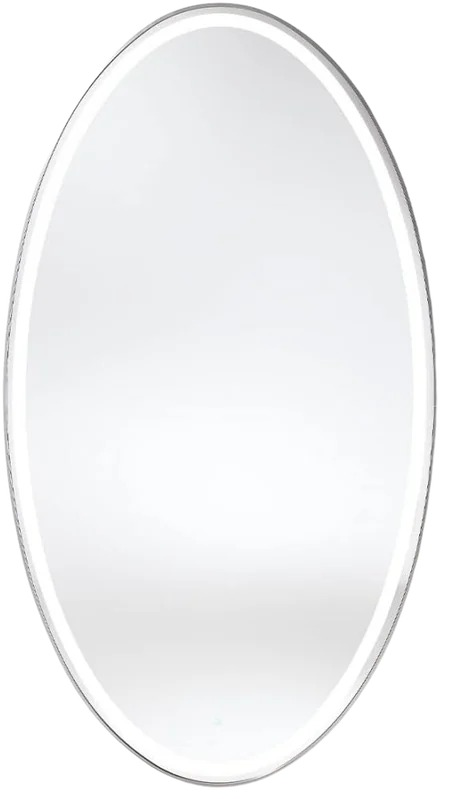
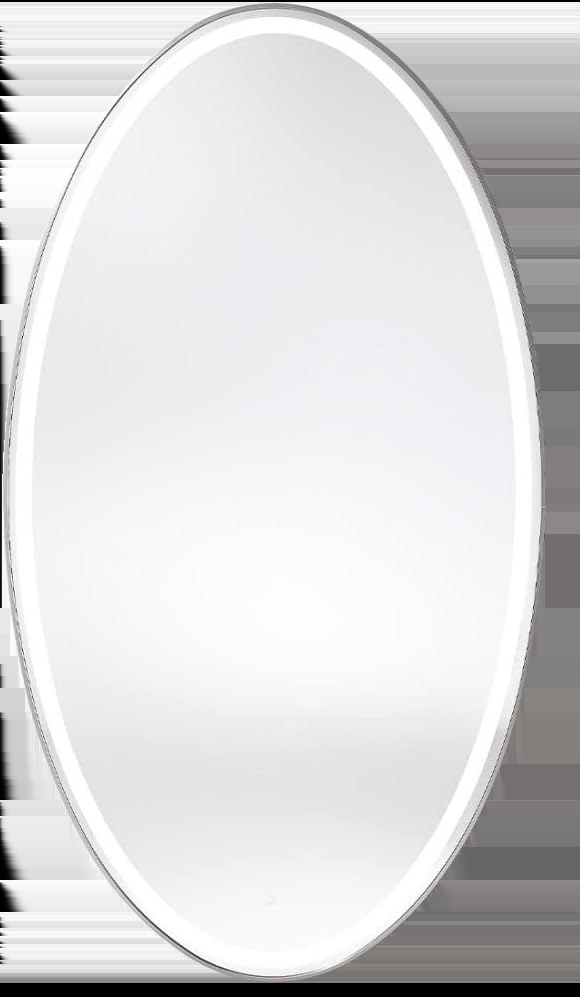
SPECCHI FMR10-FMR19: foto mancanti, copertine e scheda tecnica FMR11
FMR10: aggiunte le foto pulite di ogni versione (marrone +4, bianco +1, rosso +1).
FMR11: inserita la scheda tecnica (compensato/melamina rovere, telaio nero, imballo 106x13x79, 30 kg).
FMR12: copertina sostituita con la frontale completa (non zoomata) + aggiunta l'angolata.
FMR13: copertina = foto del prodotto, aggiunta la terza foto.
FMR14: aggiunte le 4 foto mancanti, copertina = frontale con struttura dello specchio visibile.
FMR16 GOLD/SILVER: aggiunte le 2 foto mancanti per versione.
FMR17 GOLD/SILVER/BLACK: aggiunta la frontale mancante per versione.
FMR18: aggiunte le 2 foto mancanti. FMR19: aggiunta l'ambientata. FMR15 invariato.

Claude-Session: https://claude.ai/code/session_013AUanaDTJKgu6p2JuvkhiZ

Changed region(s): [[0.0, 0.03, 1.0, 1.0], [0.0, 0.0, 0.6323, 0.6008]]

diff --git a/index.html b/index.html
@@ -761,7 +761,7 @@ function renderConsolle(){
 renderConsolle();
 
 // ─── SPECCHI ───
-const specchi = [{"code":"FMR1","versions":[{"code":"FMR1 SILVER","price":"Su richiesta","img":"images-barber/r_FMR1_silver_1.jpg","imgs":["images-barber/r_FMR1_silver_1.jpg","images-barber/r_FMR1_silver_2.jpg","images-barber/r_FMR1_silver_3.jpg","images-barber/r_FMR1_silver_4.jpg","images-barber/r_FMR1_silver_5.jpg","images-barber/r_FMR1_silver_6.jpg","images-barber/r_FMR1_silver_7.jpg"],"specs":"<b>Specchio da toeletta rettangolare 170 × 70 cm.</b><br>Illuminazione LED frontale integrata · guida luminosa da 4 cm a doppia striscia LED · luce uniforme senza ombre.<br>Intensità e temperatura colore regolabili (3000K / 4000K / 6000K).<br>Vetro senza rame da 4 mm · cornice in alluminio (nero / argento / oro) · 2 ganci metallici posteriori.","col":""},{"code":"FMR1 GOLD","price":"Su richiesta","img":"images-barber/r_FMR1_gold_1.jpg","imgs":["images-barber/r_FMR1_gold_1.jpg","images-barber/r_FMR1_gold_2.jpg","images-barber/r_FMR1_gold_3.jpg"],"specs":"<b>Specchio da toeletta rettangolare 170 × 70 cm.</b><br>Illuminazione LED frontale integrata · guida luminosa da 4 cm a doppia striscia LED · luce uniforme senza ombre.<br>Intensità e temperatura colore regolabili (3000K / 4000K / 6000K).<br>Vetro senza rame da 4 mm · cornice in alluminio (nero / argento / oro) · 2 ganci metallici posteriori.","col":""},{"code":"FMR1 BLACK","price":"Su richiesta","img":"images-barber/r_FMR1_black_1.jpg","imgs":["images-barber/r_FMR1_black_1.jpg","images-barber/r_FMR1_black_2.jpg","images-barber/r_FMR1_black_3.jpg"],"specs":"<b>Specchio da toeletta rettangolare 170 × 70 cm.</b><br>Illuminazione LED frontale integrata · guida luminosa da 4 cm a doppia striscia LED · luce uniforme senza ombre.<br>Intensità e temperatura colore regolabili (3000K / 4000K / 6000K).<br>Vetro senza rame da 4 mm · cornice in alluminio (nero / argento / oro) · 2 ganci metallici posteriori.","col":""}]},{"code":"FMR2","versions":[{"code":"FMR2 SILVER","price":"Su richiesta","img":"images-barber/r_FMR2_silver_1.jpg","imgs":["images-barber/r_FMR2_silver_1.jpg","images-barber/r_FMR2_silver_2.jpg","images-barber/r_FMR2_silver_3.jpg","images-barber/r_FMR2_silver_4.jpg","images-barber/r_FMR2_silver_5.jpg","images-barber/r_FMR2_silver_6.jpg","images-barber/r_FMR2_silver_7.jpg"],"specs":"<b>Specchio da toeletta rotondo Ø 80 cm.</b><br>Illuminazione LED frontale integrata · guida luminosa da 4 cm a doppia striscia LED · luce uniforme senza ombre.<br>Intensità e temperatura colore regolabili (3000K / 4000K / 6000K).<br>Vetro senza rame da 4 mm · cornice in alluminio (nero / argento / oro) · ganci metallici posteriori.","col":""},{"code":"FMR2 GOLD","price":"Su richiesta","img":"images-barber/r_FMR2_gold_1.jpg","imgs":["images-barber/r_FMR2_gold_1.jpg","images-barber/r_FMR2_gold_2.jpg","images-barber/r_FMR2_gold_3.jpg","images-barber/r_FMR2_gold_4.jpg","images-barber/r_FMR2_gold_5.jpg","images-barber/r_FMR2_gold_6.jpg"],"specs":"<b>Specchio da toeletta rotondo Ø 80 cm.</b><br>Illuminazione LED frontale integrata · guida luminosa da 4 cm a doppia striscia LED · luce uniforme senza ombre.<br>Intensità e temperatura colore regolabili (3000K / 4000K / 6000K).<br>Vetro senza rame da 4 mm · cornice in alluminio (nero / argento / oro) · ganci metallici posteriori.","col":""},{"code":"FMR2 BLACK","price":"Su richiesta","img":"images-barber/r_FMR2_black_1.jpg","imgs":["images-barber/r_FMR2_black_1.jpg","images-barber/r_FMR2_black_2.jpg","images-barber/r_FMR2_black_3.jpg","images-barber/r_FMR2_black_4.jpg","images-barber/r_FMR2_black_5.jpg","images-barber/r_FMR2_black_6.jpg","images-barber/r_FMR2_black_7.jpg"],"specs":"<b>Specchio da toeletta rotondo Ø 80 cm.</b><br>Illuminazione LED frontale integrata · guida luminosa da 4 cm a doppia striscia LED · luce uniforme senza ombre.<br>Intensità e temperatura colore regolabili (3000K / 4000K / 6000K).<br>Vetro senza rame da 4 mm · cornice in alluminio (nero / argento / oro) · ganci metallici posteriori.","col":""}]},{"code":"FMR3","versions":[{"code":"FMR3 SILVER","price":"Su richiesta","img":"images-barber/r_FMR3_silver_1.jpg","imgs":["images-barber/r_FMR3_silver_1.jpg","images-barber/r_FMR3_silver_2.jpg","images-barber/r_FMR3_silver_3.jpg"],"specs":"<b>Specchio da toeletta ovale 170 × 70 cm.</b><br>Illuminazione LED frontale integrata · guida luminosa da 4 cm a doppia striscia LED · luce uniforme senza ombre.<br>Intensità e temperatura colore regolabili (3000K / 4000K / 6000K).<br>Vetro senza rame da 4 mm · cornice in alluminio (nero / argento / oro) · 2 ganci metallici posteriori.","col":""},{"code":"FMR3 GOLD","price":"Su richiesta","img":"images-barber/r_FMR3_gold_1.jpg","imgs":["images-barber/r_FMR3_gold_1.jpg","images-barber/r_FMR3_gold_2.jpg","images-barber/r_FMR3_gold_3.jpg"],"specs":"<b>Specchio da toeletta ovale 170 × 70 cm.</b><br>Illuminazione LED frontale integrata · guida luminosa da 4 cm a doppia striscia LED · luce uniforme senza ombre.<br>Intensità e temperatura colore regolabili (3000K / 4000K / 6000K).<br>Vetro senza rame da 4 mm · cornice in alluminio (nero / argento / oro) · 2 ganci metallici posteriori.","col":""},{"code":"FMR3 BLACK","price":"Su richiesta","img":"images-barber/r_FMR3_black_1.jpg","imgs":["images-barber/r_FMR3_black_1.jpg","images-barber/r_FMR3_black_2.jpg","images-barber/r_FMR3_black_3.jpg"],"specs":"<b>Specchio da toeletta ovale 170 × 70 cm.</b><br>Illuminazione LED frontale integrata · guida luminosa da 4 cm a doppia striscia LED · luce uniforme senza ombre.<br>Intensità e temperatura colore regolabili (3000K / 4000K / 6000K).<br>Vetro senza rame da 4 mm · cornice in alluminio (nero / argento / oro) · 2 ganci metallici posteriori.","col":""}]},{"code":"FMR4","versions":[{"code":"FMR4","price":"Su richiesta","img":"images-barber/r_FMR4_1.jpg","imgs":["images-barber/r_FMR4_1.jpg","images-barber/r_FMR4_2.jpg","images-barber/r_FMR4_3.jpg","images-barber/r_FMR4_4.jpg","images-barber/r_FMR4_5.jpg","images-barber/r_FMR4_6.jpg","images-barber/r_FMR4_7.jpg"],"specs":"<b>Specchio da toeletta ovale 170 × 70 cm · senza cornice.</b><br>Illuminazione LED indiretta posteriore · guida luminosa perimetrale · luce morbida e uniforme senza ombre.<br>Intensità e temperatura colore regolabili (3000K / 4000K / 6000K).<br>Vetro senza rame da 4 mm · design minimalista senza cornice laterale · 2 ganci metallici posteriori.<br>Dimensioni: 1700 × 700 × 24 mm."}],"single":true},{"code":"FMR5","versions":[{"code":"FMR5","price":"Su richiesta","img":"images-barber/r_FMR5_1.jpg","imgs":["images-barber/r_FMR5_1.jpg","images-barber/r_FMR5_2.jpg","images-barber/r_FMR5_3.jpg","images-barber/r_FMR5_4.jpg","images-barber/r_FMR5_5.jpg","images-barber/r_FMR5_6.jpg","images-barber/r_FMR5_7.jpg"],"specs":"<b>Specchio da trucco rettangolare 100 × 80 cm.</b><br>15 lampadine LED da 60 mm svitabili distribuite lungo la cornice · luce omogenea ideale per il trucco professionale · sostituzione e pulizia rapide.<br>Intensità e temperatura colore regolabili (3000K / 4000K / 6000K) · porta USB laterale per la ricarica dei dispositivi.<br>Vetro senza rame da 4 mm · struttura in ferro verniciato bianco · fissaggio posteriore con fori metallici.<br>Dimensioni: 100 × 80 × 5 cm."}],"single":true},{"code":"FMR6","versions":[{"code":"FMR6","price":"Su richiesta","img":"images-barber/r_FMR6_1.jpg","imgs":["images-barber/r_FMR6_1.jpg","images-barber/r_FMR6_2.jpg","images-barber/r_FMR6_3.jpg","images-barber/r_FMR6_4.jpg","images-barber/r_FMR6_5.jpg","images-barber/r_FMR6_6.jpg","images-barber/r_FMR6_7.jpg"],"specs":"<b>Specchio da trucco rettangolare 100 × 80 cm · design frontale senza cornice.</b><br>15 cupole LED decorative da 45 mm fissate direttamente al vetro · luce uniforme ideale per il trucco.<br>Intensità e temperatura colore regolabili (3000K / 4000K / 6000K) · porta USB laterale integrata.<br>Vetro senza rame da 4 mm · struttura in ferro verniciato bianco · 2 ganci metallici posteriori.<br>Dimensioni: 100 × 80 × 5 cm."}],"single":true},{"code":"FMR7","single":true,"versions":[{"code":"FMR7","col":"","price":"Su richiesta","img":"images-barber/r_FMR7_1.jpg","imgs":["images-barber/r_FMR7_1.jpg"],"specs":"<b>Postazione specchiera per parrucchieri e barbieri.</b><br>Struttura interna in pannello di truciolato ad alta densità · finitura in laminato melaminico bianco · pianetto bianco porta-utensili.<br>Specchio ad alta resistenza da 4 mm.<br>Dimensioni: 180 × 68 × 19 cm · pianetto 54 × 18 × 3,9 cm.<br>Imballo: pacco 1 56 × 22 × 5 cm / 4 kg · pacco 2 185 × 70 × 4 cm / 36 kg."}]},{"code":"FMR8","versions":[{"code":"FMR8 NATURE","col":"","price":"Su richiesta","img":"images-barber/r_FMR8_nature_1.jpg","imgs":["images-barber/r_FMR8_nature_1.jpg","images-barber/r_FMR8_nature_2.jpg"],"specs":"<b>Postazione specchiera per parrucchieri e barbieri — rovere naturale.</b><br>Struttura interna in pannello di truciolato ad alta densità · finitura in laminato melaminico · pianetto porta-utensili.<br>Specchio ad alta resistenza da 4 mm.<br>Dimensioni: 180 × 68 × 19 cm · pianetto 54 × 18 × 3,9 cm.<br>Imballo: pacco 1 56 × 22 × 5 cm / 4 kg · pacco 2 185 × 70 × 4 cm / 36 kg."},{"code":"FMR8 NATURE BLACK","col":"","price":"Su richiesta","img":"images-barber/r_FMR8_natureblack_1.jpg","imgs":["images-barber/r_FMR8_natureblack_1.jpg","images-barber/r_FMR8_natureblack_2.jpg"],"specs":"<b>Postazione specchiera per parrucchieri e barbieri — cornice rovere, pianetto nero.</b><br>Struttura interna in pannello di truciolato ad alta densità · finitura in laminato melaminico · pianetto porta-utensili.<br>Specchio ad alta resistenza da 4 mm.<br>Dimensioni: 180 × 68 × 19 cm · pianetto 54 × 18 × 3,9 cm.<br>Imballo: pacco 1 56 × 22 × 5 cm / 4 kg · pacco 2 185 × 70 × 4 cm / 36 kg."},{"code":"FMR8 NATURE WHITE","col":"","price":"Su richiesta","img":"images-barber/r_FMR8_naturewhite_1.jpg","imgs":["images-barber/r_FMR8_naturewhite_1.jpg","images-barber/r_FMR8_naturewhite_2.jpg"],"specs":"<b>Postazione specchiera per parrucchieri e barbieri — cornice rovere, pianetto bianco.</b><br>Struttura interna in pannello di truciolato ad alta densità · finitura in laminato melaminico · pianetto porta-utensili.<br>Specchio ad alta resistenza da 4 mm.<br>Dimensioni: 180 × 68 × 19 cm · pianetto 54 × 18 × 3,9 cm.<br>Imballo: pacco 1 56 × 22 × 5 cm / 4 kg · pacco 2 185 × 70 × 4 cm / 36 kg."},{"code":"FMR8 TOTAL WHITE","col":"","price":"Su richiesta","img":"images-barber/r_FMR8_totalwhite_1.jpg","imgs":["images-barber/r_FMR8_totalwhite_1.jpg"],"specs":"<b>Postazione specchiera per parrucchieri e barbieri — total white.</b><br>Struttura interna in pannello di truciolato ad alta densità · finitura in laminato melaminico · pianetto porta-utensili.<br>Specchio ad alta resistenza da 4 mm.<br>Dimensioni: 180 × 68 × 19 cm · pianetto 54 × 18 × 3,9 cm.<br>Imballo: pacco 1 56 × 22 × 5 cm / 4 kg · pacco 2 185 × 70 × 4 cm / 36 kg."},{"code":"FMR8 TOTAL BLACK","col":"","price":"Su richiesta","img":"images-barber/r_FMR8_totalblack_1.jpg","imgs":["images-barber/r_FMR8_totalblack_1.jpg"],"specs":"<b>Postazione specchiera per parrucchieri e barbieri — total black.</b><br>Struttura interna in pannello di truciolato ad alta densità · finitura in laminato melaminico · pianetto porta-utensili.<br>Specchio ad alta resistenza da 4 mm.<br>Dimensioni: 180 × 68 × 19 cm · pianetto 54 × 18 × 3,9 cm.<br>Imballo: pacco 1 56 × 22 × 5 cm / 4 kg · pacco 2 185 × 70 × 4 cm / 36 kg."}]},{"code":"FMR9","versions":[{"code":"FMR9 BIANCO","col":"","price":"Su richiesta","img":"images-barber/r_FMR9_bianco_1.jpg","imgs":["images-barber/r_FMR9_bianco_1.jpg"],"specs":"<b>Specchio circolare LED con mensola-consolle.</b><br>Specchio tondo Ø 68 cm con illuminazione LED · cassetto-consolle inferiore a vano aperto · combinazione bianco e rovere.<br>2 pezzi · 1 posto di lavoro · materiale resistente a usura e graffi.<br>Consolle 68 × 26 × 20 cm.<br>Imballo: cassetto 29,5 × 71,5 × 15 cm · specchio 71,5 × 71,5 cm."},{"code":"FMR9 NATURE","col":"","price":"Su richiesta","img":"images-barber/r_FMR9_nature_1.jpg","imgs":["images-barber/r_FMR9_nature_1.jpg"],"specs":"<b>Specchio circolare LED con mensola-consolle.</b><br>Specchio tondo Ø 68 cm con illuminazione LED · cassetto-consolle inferiore a vano aperto · finitura rovere naturale.<br>2 pezzi · 1 posto di lavoro · materiale resistente a usura e graffi.<br>Consolle 68 × 26 × 20 cm.<br>Imballo: cassetto 29,5 × 71,5 × 15 cm · specchio 71,5 × 71,5 cm."},{"code":"FMR9 BLACK","col":"","price":"Su richiesta","img":"images-barber/r_FMR9_black_1.jpg","imgs":["images-barber/r_FMR9_black_1.jpg"],"specs":"<b>Specchio circolare LED con mensola-consolle.</b><br>Specchio tondo Ø 68 cm con illuminazione LED · cassetto-consolle inferiore a vano aperto · combinazione nero e rovere.<br>2 pezzi · 1 posto di lavoro · materiale resistente a usura e graffi.<br>Consolle 68 × 26 × 20 cm.<br>Imballo: cassetto 29,5 × 71,5 × 15 cm · specchio 71,5 × 71,5 cm."}]},{"code":"FMR10","versions":[{"code":"FMR10 MARRONE","price":"Su richiesta","img":"images-barber/r_FMR10_marrone_1.jpg","imgs":["images-barber/r_FMR10_marrone_1.jpg","images-barber/r_FMR10_marrone_2.jpg"],"specs":"Postazione trucco con specchio, piano e contenitori.","col":""},{"code":"FMR10 BIANCO","price":"Su richiesta","img":"images-barber/r_FMR10_bianco_1.jpg","imgs":["images-barber/r_FMR10_bianco_1.jpg","images-barber/r_FMR10_bianco_2.jpg","images-barber/r_FMR10_bianco_3.jpg","images-barber/r_FMR10_bianco_4.jpg"],"specs":"Postazione trucco con specchio, piano e contenitori.","col":""},{"code":"FMR10 ROSSO","price":"Su richiesta","img":"images-barber/r_FMR10_rosso_1.jpg","imgs":["images-barber/r_FMR10_rosso_1.jpg","images-barber/r_FMR10_rosso_2.jpg"],"specs":"Postazione trucco con specchio, piano e contenitori.","col":""}]},{"code":"FMR11","versions":[{"code":"FMR11","price":"Su richiesta","img":"images-barber/r_FMR11_1.jpg","imgs":["images-barber/r_FMR11_1.jpg","images-barber/r_FMR11_2.jpg","images-barber/r_FMR11_3.jpg","images-barber/r_FMR11_4.jpg"],"specs":"Postazione trucco in legno con specchio."}],"single":true},{"code":"FMR12","versions":[{"code":"FMR12","price":"Su richiesta","img":"images-barber/r_FMR12_1.jpg","imgs":["images-barber/r_FMR12_1.jpg","images-barber/r_FMR12_2.jpg"],"specs":"Specchio ovale da terra con piantana."}],"single":true},{"code":"FMR13","versions":[{"code":"FMR13","price":"Su richiesta","img":"images-barber/r_FMR13_1.jpg","imgs":["images-barber/r_FMR13_1.jpg","images-barber/r_FMR13_2.jpg"],"specs":"Specchio tondo LED."}],"single":true},{"code":"FMR14","versions":[{"code":"FMR14","price":"Su richiesta","img":"images-barber/r_FMR14_1.jpg","imgs":["images-barber/r_FMR14_1.jpg","images-barber/r_FMR14_2.jpg"],"specs":"Specchio da terra con piantana e ruote."}],"single":true},{"code":"FMR15","versions":[{"code":"FMR15","price":"Su richiesta","img":"images-barber/r_FMR15_1.jpg","imgs":["images-barber/r_FMR15_1.jpg","images-barber/r_FMR15_2.jpg"],"specs":"Specchio da terra con piantana e ruote."}],"single":true},{"code":"FMR16","versions":[{"code":"FMR16 GOLD","price":"Su richiesta","img":"images-barber/r_FMR16_gold_1.jpg","imgs":["images-barber/r_FMR16_gold_1.jpg","images-barber/r_FMR16_gold_2.jpg"],"specs":"Specchio ovale da terra con base.","col":""},{"code":"FMR16 SILVER","price":"Su richiesta","img":"images-barber/r_FMR16_silver_1.jpg","imgs":["images-barber/r_FMR16_silver_1.jpg","images-barber/r_FMR16_silver_2.jpg"],"specs":"Specchio ovale da terra con base.","col":""}]},{"code":"FMR17","versions":[{"code":"FMR17 GOLD","price":"Su richiesta","img":"images-barber/r_FMR17_gold_1.jpg","imgs":["images-barber/r_FMR17_gold_1.jpg","images-barber/r_FMR17_gold_2.jpg"],"specs":"Specchio tondo da terra con base.","col":""},{"code":"FMR17 SILVER","price":"Su richiesta","img":"images-barber/r_FMR17_silver_1.jpg","imgs":["images-barber/r_FMR17_silver_1.jpg","images-barber/r_FMR17_silver_2.jpg"],"specs":"Specchio tondo da terra con base.","col":""},{"code":"FMR17 BLACK","price":"Su richiesta","img":"images-barber/r_FMR17_black_1.jpg","imgs":["images-barber/r_FMR17_black_1.jpg","images-barber/r_FMR17_black_2.jpg"],"specs":"Specchio tondo da terra con base.","col":""}]},{"code":"FMR18","versions":[{"code":"FMR18","price":"Su richiesta","img":"images-barber/r_FMR18_1.jpg","imgs":["images-barber/r_FMR18_1.jpg","images-barber/r_FMR18_2.jpg"],"specs":"Postazione trucco / toeletta con specchio."}],"single":true},{"code":"FMR19","versions":[{"code":"FMR19","price":"Su richiesta","img":"images-barber/r_FMR19_1.jpg","imgs":["images-barber/r_FMR19_1.jpg","images-barber/r_FMR19_2.jpg"],"specs":"Specchio rettangolare con bordo sagomato."}],"single":true}];
+const specchi = [{"code":"FMR1","versions":[{"code":"FMR1 SILVER","price":"Su richiesta","img":"images-barber/r_FMR1_silver_1.jpg","imgs":["images-barber/r_FMR1_silver_1.jpg","images-barber/r_FMR1_silver_2.jpg","images-barber/r_FMR1_silver_3.jpg","images-barber/r_FMR1_silver_4.jpg","images-barber/r_FMR1_silver_5.jpg","images-barber/r_FMR1_silver_6.jpg","images-barber/r_FMR1_silver_7.jpg"],"specs":"<b>Specchio da toeletta rettangolare 170 × 70 cm.</b><br>Illuminazione LED frontale integrata · guida luminosa da 4 cm a doppia striscia LED · luce uniforme senza ombre.<br>Intensità e temperatura colore regolabili (3000K / 4000K / 6000K).<br>Vetro senza rame da 4 mm · cornice in alluminio (nero / argento / oro) · 2 ganci metallici posteriori.","col":""},{"code":"FMR1 GOLD","price":"Su richiesta","img":"images-barber/r_FMR1_gold_1.jpg","imgs":["images-barber/r_FMR1_gold_1.jpg","images-barber/r_FMR1_gold_2.jpg","images-barber/r_FMR1_gold_3.jpg"],"specs":"<b>Specchio da toeletta rettangolare 170 × 70 cm.</b><br>Illuminazione LED frontale integrata · guida luminosa da 4 cm a doppia striscia LED · luce uniforme senza ombre.<br>Intensità e temperatura colore regolabili (3000K / 4000K / 6000K).<br>Vetro senza rame da 4 mm · cornice in alluminio (nero / argento / oro) · 2 ganci metallici posteriori.","col":""},{"code":"FMR1 BLACK","price":"Su richiesta","img":"images-barber/r_FMR1_black_1.jpg","imgs":["images-barber/r_FMR1_black_1.jpg","images-barber/r_FMR1_black_2.jpg","images-barber/r_FMR1_black_3.jpg"],"specs":"<b>Specchio da toeletta rettangolare 170 × 70 cm.</b><br>Illuminazione LED frontale integrata · guida luminosa da 4 cm a doppia striscia LED · luce uniforme senza ombre.<br>Intensità e temperatura colore regolabili (3000K / 4000K / 6000K).<br>Vetro senza rame da 4 mm · cornice in alluminio (nero / argento / oro) · 2 ganci metallici posteriori.","col":""}]},{"code":"FMR2","versions":[{"code":"FMR2 SILVER","price":"Su richiesta","img":"images-barber/r_FMR2_silver_1.jpg","imgs":["images-barber/r_FMR2_silver_1.jpg","images-barber/r_FMR2_silver_2.jpg","images-barber/r_FMR2_silver_3.jpg","images-barber/r_FMR2_silver_4.jpg","images-barber/r_FMR2_silver_5.jpg","images-barber/r_FMR2_silver_6.jpg","images-barber/r_FMR2_silver_7.jpg"],"specs":"<b>Specchio da toeletta rotondo Ø 80 cm.</b><br>Illuminazione LED frontale integrata · guida luminosa da 4 cm a doppia striscia LED · luce uniforme senza ombre.<br>Intensità e temperatura colore regolabili (3000K / 4000K / 6000K).<br>Vetro senza rame da 4 mm · cornice in alluminio (nero / argento / oro) · ganci metallici posteriori.","col":""},{"code":"FMR2 GOLD","price":"Su richiesta","img":"images-barber/r_FMR2_gold_1.jpg","imgs":["images-barber/r_FMR2_gold_1.jpg","images-barber/r_FMR2_gold_2.jpg","images-barber/r_FMR2_gold_3.jpg","images-barber/r_FMR2_gold_4.jpg","images-barber/r_FMR2_gold_5.jpg","images-barber/r_FMR2_gold_6.jpg"],"specs":"<b>Specchio da toeletta rotondo Ø 80 cm.</b><br>Illuminazione LED frontale integrata · guida luminosa da 4 cm a doppia striscia LED · luce uniforme senza ombre.<br>Intensità e temperatura colore regolabili (3000K / 4000K / 6000K).<br>Vetro senza rame da 4 mm · cornice in alluminio (nero / argento / oro) · ganci metallici posteriori.","col":""},{"code":"FMR2 BLACK","price":"Su richiesta","img":"images-barber/r_FMR2_black_1.jpg","imgs":["images-barber/r_FMR2_black_1.jpg","images-barber/r_FMR2_black_2.jpg","images-barber/r_FMR2_black_3.jpg","images-barber/r_FMR2_black_4.jpg","images-barber/r_FMR2_black_5.jpg","images-barber/r_FMR2_black_6.jpg","images-barber/r_FMR2_black_7.jpg"],"specs":"<b>Specchio da toeletta rotondo Ø 80 cm.</b><br>Illuminazione LED frontale integrata · guida luminosa da 4 cm a doppia striscia LED · luce uniforme senza ombre.<br>Intensità e temperatura colore regolabili (3000K / 4000K / 6000K).<br>Vetro senza rame da 4 mm · cornice in alluminio (nero / argento / oro) · ganci metallici posteriori.","col":""}]},{"code":"FMR3","versions":[{"code":"FMR3 SILVER","price":"Su richiesta","img":"images-barber/r_FMR3_silver_1.jpg","imgs":["images-barber/r_FMR3_silver_1.jpg","images-barber/r_FMR3_silver_2.jpg","images-barber/r_FMR3_silver_3.jpg"],"specs":"<b>Specchio da toeletta ovale 170 × 70 cm.</b><br>Illuminazione LED frontale integrata · guida luminosa da 4 cm a doppia striscia LED · luce uniforme senza ombre.<br>Intensità e temperatura colore regolabili (3000K / 4000K / 6000K).<br>Vetro senza rame da 4 mm · cornice in alluminio (nero / argento / oro) · 2 ganci metallici posteriori.","col":""},{"code":"FMR3 GOLD","price":"Su richiesta","img":"images-barber/r_FMR3_gold_1.jpg","imgs":["images-barber/r_FMR3_gold_1.jpg","images-barber/r_FMR3_gold_2.jpg","images-barber/r_FMR3_gold_3.jpg"],"specs":"<b>Specchio da toeletta ovale 170 × 70 cm.</b><br>Illuminazione LED frontale integrata · guida luminosa da 4 cm a doppia striscia LED · luce uniforme senza ombre.<br>Intensità e temperatura colore regolabili (3000K / 4000K / 6000K).<br>Vetro senza rame da 4 mm · cornice in alluminio (nero / argento / oro) · 2 ganci metallici posteriori.","col":""},{"code":"FMR3 BLACK","price":"Su richiesta","img":"images-barber/r_FMR3_black_1.jpg","imgs":["images-barber/r_FMR3_black_1.jpg","images-barber/r_FMR3_black_2.jpg","images-barber/r_FMR3_black_3.jpg"],"specs":"<b>Specchio da toeletta ovale 170 × 70 cm.</b><br>Illuminazione LED frontale integrata · guida luminosa da 4 cm a doppia striscia LED · luce uniforme senza ombre.<br>Intensità e temperatura colore regolabili (3000K / 4000K / 6000K).<br>Vetro senza rame da 4 mm · cornice in alluminio (nero / argento / oro) · 2 ganci metallici posteriori.","col":""}]},{"code":"FMR4","versions":[{"code":"FMR4","price":"Su richiesta","img":"images-barber/r_FMR4_1.jpg","imgs":["images-barber/r_FMR4_1.jpg","images-barber/r_FMR4_2.jpg","images-barber/r_FMR4_3.jpg","images-barber/r_FMR4_4.jpg","images-barber/r_FMR4_5.jpg","images-barber/r_FMR4_6.jpg","images-barber/r_FMR4_7.jpg"],"specs":"<b>Specchio da toeletta ovale 170 × 70 cm · senza cornice.</b><br>Illuminazione LED indiretta posteriore · guida luminosa perimetrale · luce morbida e uniforme senza ombre.<br>Intensità e temperatura colore regolabili (3000K / 4000K / 6000K).<br>Vetro senza rame da 4 mm · design minimalista senza cornice laterale · 2 ganci metallici posteriori.<br>Dimensioni: 1700 × 700 × 24 mm."}],"single":true},{"code":"FMR5","versions":[{"code":"FMR5","price":"Su richiesta","img":"images-barber/r_FMR5_1.jpg","imgs":["images-barber/r_FMR5_1.jpg","images-barber/r_FMR5_2.jpg","images-barber/r_FMR5_3.jpg","images-barber/r_FMR5_4.jpg","images-barber/r_FMR5_5.jpg","images-barber/r_FMR5_6.jpg","images-barber/r_FMR5_7.jpg"],"specs":"<b>Specchio da trucco rettangolare 100 × 80 cm.</b><br>15 lampadine LED da 60 mm svitabili distribuite lungo la cornice · luce omogenea ideale per il trucco professionale · sostituzione e pulizia rapide.<br>Intensità e temperatura colore regolabili (3000K / 4000K / 6000K) · porta USB laterale per la ricarica dei dispositivi.<br>Vetro senza rame da 4 mm · struttura in ferro verniciato bianco · fissaggio posteriore con fori metallici.<br>Dimensioni: 100 × 80 × 5 cm."}],"single":true},{"code":"FMR6","versions":[{"code":"FMR6","price":"Su richiesta","img":"images-barber/r_FMR6_1.jpg","imgs":["images-barber/r_FMR6_1.jpg","images-barber/r_FMR6_2.jpg","images-barber/r_FMR6_3.jpg","images-barber/r_FMR6_4.jpg","images-barber/r_FMR6_5.jpg","images-barber/r_FMR6_6.jpg","images-barber/r_FMR6_7.jpg"],"specs":"<b>Specchio da trucco rettangolare 100 × 80 cm · design frontale senza cornice.</b><br>15 cupole LED decorative da 45 mm fissate direttamente al vetro · luce uniforme ideale per il trucco.<br>Intensità e temperatura colore regolabili (3000K / 4000K / 6000K) · porta USB laterale integrata.<br>Vetro senza rame da 4 mm · struttura in ferro verniciato bianco · 2 ganci metallici posteriori.<br>Dimensioni: 100 × 80 × 5 cm."}],"single":true},{"code":"FMR7","single":true,"versions":[{"code":"FMR7","col":"","price":"Su richiesta","img":"images-barber/r_FMR7_1.jpg","imgs":["images-barber/r_FMR7_1.jpg"],"specs":"<b>Postazione specchiera per parrucchieri e barbieri.</b><br>Struttura interna in pannello di truciolato ad alta densità · finitura in laminato melaminico bianco · pianetto bianco porta-utensili.<br>Specchio ad alta resistenza da 4 mm.<br>Dimensioni: 180 × 68 × 19 cm · pianetto 54 × 18 × 3,9 cm.<br>Imballo: pacco 1 56 × 22 × 5 cm / 4 kg · pacco 2 185 × 70 × 4 cm / 36 kg."}]},{"code":"FMR8","versions":[{"code":"FMR8 NATURE","col":"","price":"Su richiesta","img":"images-barber/r_FMR8_nature_1.jpg","imgs":["images-barber/r_FMR8_nature_1.jpg","images-barber/r_FMR8_nature_2.jpg"],"specs":"<b>Postazione specchiera per parrucchieri e barbieri — rovere naturale.</b><br>Struttura interna in pannello di truciolato ad alta densità · finitura in laminato melaminico · pianetto porta-utensili.<br>Specchio ad alta resistenza da 4 mm.<br>Dimensioni: 180 × 68 × 19 cm · pianetto 54 × 18 × 3,9 cm.<br>Imballo: pacco 1 56 × 22 × 5 cm / 4 kg · pacco 2 185 × 70 × 4 cm / 36 kg."},{"code":"FMR8 NATURE BLACK","col":"","price":"Su richiesta","img":"images-barber/r_FMR8_natureblack_1.jpg","imgs":["images-barber/r_FMR8_natureblack_1.jpg","images-barber/r_FMR8_natureblack_2.jpg"],"specs":"<b>Postazione specchiera per parrucchieri e barbieri — cornice rovere, pianetto nero.</b><br>Struttura interna in pannello di truciolato ad alta densità · finitura in laminato melaminico · pianetto porta-utensili.<br>Specchio ad alta resistenza da 4 mm.<br>Dimensioni: 180 × 68 × 19 cm · pianetto 54 × 18 × 3,9 cm.<br>Imballo: pacco 1 56 × 22 × 5 cm / 4 kg · pacco 2 185 × 70 × 4 cm / 36 kg."},{"code":"FMR8 NATURE WHITE","col":"","price":"Su richiesta","img":"images-barber/r_FMR8_naturewhite_1.jpg","imgs":["images-barber/r_FMR8_naturewhite_1.jpg","images-barber/r_FMR8_naturewhite_2.jpg"],"specs":"<b>Postazione specchiera per parrucchieri e barbieri — cornice rovere, pianetto bianco.</b><br>Struttura interna in pannello di truciolato ad alta densità · finitura in laminato melaminico · pianetto porta-utensili.<br>Specchio ad alta resistenza da 4 mm.<br>Dimensioni: 180 × 68 × 19 cm · pianetto 54 × 18 × 3,9 cm.<br>Imballo: pacco 1 56 × 22 × 5 cm / 4 kg · pacco 2 185 × 70 × 4 cm / 36 kg."},{"code":"FMR8 TOTAL WHITE","col":"","price":"Su richiesta","img":"images-barber/r_FMR8_totalwhite_1.jpg","imgs":["images-barber/r_FMR8_totalwhite_1.jpg"],"specs":"<b>Postazione specchiera per parrucchieri e barbieri — total white.</b><br>Struttura interna in pannello di truciolato ad alta densità · finitura in laminato melaminico · pianetto porta-utensili.<br>Specchio ad alta resistenza da 4 mm.<br>Dimensioni: 180 × 68 × 19 cm · pianetto 54 × 18 × 3,9 cm.<br>Imballo: pacco 1 56 × 22 × 5 cm / 4 kg · pacco 2 185 × 70 × 4 cm / 36 kg."},{"code":"FMR8 TOTAL BLACK","col":"","price":"Su richiesta","img":"images-barber/r_FMR8_totalblack_1.jpg","imgs":["images-barber/r_FMR8_totalblack_1.jpg"],"specs":"<b>Postazione specchiera per parrucchieri e barbieri — total black.</b><br>Struttura interna in pannello di truciolato ad alta densità · finitura in laminato melaminico · pianetto porta-utensili.<br>Specchio ad alta resistenza da 4 mm.<br>Dimensioni: 180 × 68 × 19 cm · pianetto 54 × 18 × 3,9 cm.<br>Imballo: pacco 1 56 × 22 × 5 cm / 4 kg · pacco 2 185 × 70 × 4 cm / 36 kg."}]},{"code":"FMR9","versions":[{"code":"FMR9 BIANCO","col":"","price":"Su richiesta","img":"images-barber/r_FMR9_bianco_1.jpg","imgs":["images-barber/r_FMR9_bianco_1.jpg"],"specs":"<b>Specchio circolare LED con mensola-consolle.</b><br>Specchio tondo Ø 68 cm con illuminazione LED · cassetto-consolle inferiore a vano aperto · combinazione bianco e rovere.<br>2 pezzi · 1 posto di lavoro · materiale resistente a usura e graffi.<br>Consolle 68 × 26 × 20 cm.<br>Imballo: cassetto 29,5 × 71,5 × 15 cm · specchio 71,5 × 71,5 cm."},{"code":"FMR9 NATURE","col":"","price":"Su richiesta","img":"images-barber/r_FMR9_nature_1.jpg","imgs":["images-barber/r_FMR9_nature_1.jpg"],"specs":"<b>Specchio circolare LED con mensola-consolle.</b><br>Specchio tondo Ø 68 cm con illuminazione LED · cassetto-consolle inferiore a vano aperto · finitura rovere naturale.<br>2 pezzi · 1 posto di lavoro · materiale resistente a usura e graffi.<br>Consolle 68 × 26 × 20 cm.<br>Imballo: cassetto 29,5 × 71,5 × 15 cm · specchio 71,5 × 71,5 cm."},{"code":"FMR9 BLACK","col":"","price":"Su richiesta","img":"images-barber/r_FMR9_black_1.jpg","imgs":["images-barber/r_FMR9_black_1.jpg"],"specs":"<b>Specchio circolare LED con mensola-consolle.</b><br>Specchio tondo Ø 68 cm con illuminazione LED · cassetto-consolle inferiore a vano aperto · combinazione nero e rovere.<br>2 pezzi · 1 posto di lavoro · materiale resistente a usura e graffi.<br>Consolle 68 × 26 × 20 cm.<br>Imballo: cassetto 29,5 × 71,5 × 15 cm · specchio 71,5 × 71,5 cm."}]},{"code":"FMR10","versions":[{"code":"FMR10 MARRONE","price":"Su richiesta","img":"images-barber/r_FMR10_marrone_1.jpg","imgs":["images-barber/r_FMR10_marrone_1.jpg","images-barber/r_FMR10_marrone_2.jpg","images-barber/r_FMR10_marrone_3.jpg","images-barber/r_FMR10_marrone_4.jpg","images-barber/r_FMR10_marrone_5.jpg","images-barber/r_FMR10_marrone_6.jpg"],"specs":"Postazione trucco con specchio, piano e contenitori.","col":""},{"code":"FMR10 BIANCO","price":"Su richiesta","img":"images-barber/r_FMR10_bianco_1.jpg","imgs":["images-barber/r_FMR10_bianco_1.jpg","images-barber/r_FMR10_bianco_2.jpg","images-barber/r_FMR10_bianco_5.jpg","images-barber/r_FMR10_bianco_3.jpg","images-barber/r_FMR10_bianco_4.jpg"],"specs":"Postazione trucco con specchio, piano e contenitori.","col":""},{"code":"FMR10 ROSSO","price":"Su richiesta","img":"images-barber/r_FMR10_rosso_1.jpg","imgs":["images-barber/r_FMR10_rosso_1.jpg","images-barber/r_FMR10_rosso_2.jpg","images-barber/r_FMR10_rosso_3.jpg"],"specs":"Postazione trucco con specchio, piano e contenitori.","col":""}]},{"code":"FMR11","versions":[{"code":"FMR11","price":"Su richiesta","img":"images-barber/r_FMR11_1.jpg","imgs":["images-barber/r_FMR11_1.jpg","images-barber/r_FMR11_2.jpg","images-barber/r_FMR11_3.jpg","images-barber/r_FMR11_4.jpg"],"specs":"<b>Specchio per saloni di parrucchieri e barbieri.</b><br>Pannelli di compensato rivestiti in melamina con finitura rustica · struttura interna in truciolato ad alta densità con foglio di melamina color rovere.<br>Mensola/vassoio porta-strumenti · telaio metallico nero con rivetti a vista sul fronte della mensola.<br>Grandi dimensioni, pronto da appendere a parete.<br>Dimensioni imballaggio: 106 × 13 × 79 cm · peso netto 30 kg · peso lordo 31,4 kg."}],"single":true},{"code":"FMR12","versions":[{"code":"FMR12","price":"Su richiesta","img":"images-barber/r_FMR12_1.jpg","imgs":["images-barber/r_FMR12_1.jpg","images-barber/r_FMR12_3.jpg","images-barber/r_FMR12_2.jpg"],"specs":"Specchio ovale da terra con piantana."}],"single":true},{"code":"FMR13","versions":[{"code":"FMR13","price":"Su richiesta","img":"images-barber/r_FMR13_2.jpg","imgs":["images-barber/r_FMR13_2.jpg","images-barber/r_FMR13_3.jpg","images-barber/r_FMR13_1.jpg"],"specs":"Specchio tondo LED."}],"single":true},{"code":"FMR14","versions":[{"code":"FMR14","price":"Su richiesta","img":"images-barber/r_FMR14_3.jpg","imgs":["images-barber/r_FMR14_3.jpg","images-barber/r_FMR14_1.jpg","images-barber/r_FMR14_2.jpg","images-barber/r_FMR14_4.jpg","images-barber/r_FMR14_5.jpg","images-barber/r_FMR14_6.jpg"],"specs":"Specchio da terra con piantana e ruote."}],"single":true},{"code":"FMR15","versions":[{"code":"FMR15","price":"Su richiesta","img":"images-barber/r_FMR15_1.jpg","imgs":["images-barber/r_FMR15_1.jpg","images-barber/r_FMR15_2.jpg"],"specs":"Specchio da terra con piantana e ruote."}],"single":true},{"code":"FMR16","versions":[{"code":"FMR16 GOLD","price":"Su richiesta","img":"images-barber/r_FMR16_gold_1.jpg","imgs":["images-barber/r_FMR16_gold_1.jpg","images-barber/r_FMR16_gold_3.jpg","images-barber/r_FMR16_gold_4.jpg","images-barber/r_FMR16_gold_2.jpg"],"specs":"Specchio ovale da terra con base.","col":""},{"code":"FMR16 SILVER","price":"Su richiesta","img":"images-barber/r_FMR16_silver_1.jpg","imgs":["images-barber/r_FMR16_silver_1.jpg","images-barber/r_FMR16_silver_3.jpg","images-barber/r_FMR16_silver_4.jpg","images-barber/r_FMR16_silver_2.jpg"],"specs":"Specchio ovale da terra con base.","col":""}]},{"code":"FMR17","versions":[{"code":"FMR17 GOLD","price":"Su richiesta","img":"images-barber/r_FMR17_gold_1.jpg","imgs":["images-barber/r_FMR17_gold_1.jpg","images-barber/r_FMR17_gold_3.jpg","images-barber/r_FMR17_gold_2.jpg"],"specs":"Specchio tondo da terra con base.","col":""},{"code":"FMR17 SILVER","price":"Su richiesta","img":"images-barber/r_FMR17_silver_1.jpg","imgs":["images-barber/r_FMR17_silver_1.jpg","images-barber/r_FMR17_silver_3.jpg","images-barber/r_FMR17_silver_2.jpg"],"specs":"Specchio tondo da terra con base.","col":""},{"code":"FMR17 BLACK","price":"Su richiesta","img":"images-barber/r_FMR17_black_1.jpg","imgs":["images-barber/r_FMR17_black_1.jpg","images-barber/r_FMR17_black_3.jpg","images-barber/r_FMR17_black_2.jpg"],"specs":"Specchio tondo da terra con base.","col":""}]},{"code":"FMR18","versions":[{"code":"FMR18","price":"Su richiesta","img":"images-barber/r_FMR18_1.jpg","imgs":["images-barber/r_FMR18_1.jpg","images-barber/r_FMR18_3.jpg","images-barber/r_FMR18_4.jpg","images-barber/r_FMR18_2.jpg"],"specs":"Postazione trucco / toeletta con specchio."}],"single":true},{"code":"FMR19","versions":[{"code":"FMR19","price":"Su richiesta","img":"images-barber/r_FMR19_1.jpg","imgs":["images-barber/r_FMR19_1.jpg","images-barber/r_FMR19_3.jpg","images-barber/r_FMR19_2.jpg"],"specs":"Specchio rettangolare con bordo sagomato."}],"single":true}];
 specchi.forEach(m => m.versions.forEach(v => { lavoroIndex[v.code] = Object.assign({model:m.code}, v); }));
 function renderSpecchi(){
   const el=document.getElementById('products-specchi');
